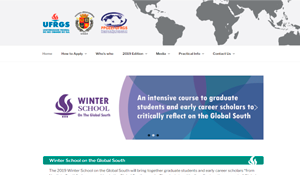
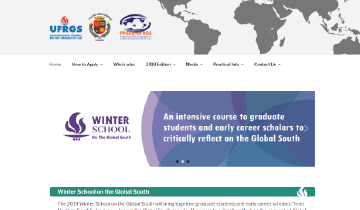
log

diff --git a/index.html b/index.html
@@ -85,20 +85,29 @@
 			<br>
 			<div class="container">
 				<h2 id="cases">CASES</h2></br>
-				<div class="row justify-content-md-center">
-					<div class="col-md-4" align="center">
-						<div class="casesimg"><a href="convenio.html" /><img src="img\adobeXD.png" alt="Adobe XD" height=auto></a></div>
-						<a>Convênio Saúde | PROFISSIONAL</a>
-					</div>
+				<div class="container">
+					<div class="row justify-content-md-center">
+						<div class="col-md-6" align="center">
+							<div class="casesimg"><a href="https://xd.adobe.com/view/db568613-85b9-4c7d-b766-7bc77bd21856-8e05/?fullscreen"><img src="img\desafioux.png" alt="Desafio UX" height=auto></a></div>
+							<a align="center"> Cartão Combustíveis | DESAFIO UX</a>
+						</div>
 
-					<div class="col-md-4" align="center">
-						<div class="casesimg"><a href="figmacv.html" /><img src="img\figmaCV.png" alt="Figma" height=auto></a></div>
-						<a>CV Figma | PESSOAL </a>
+						<div class="col-md-6" align="center">
+							<div class="casesimg"><a href="convenio.html" /><img src="img\adobeXD.png" alt="Adobe XD" height=auto></a></div>
+							<a>Convênio Saúde | PROFISSIONAL</a>
+						</div>
 					</div>
-
-					<div class="col-md-4" align="center">
-						<div class="casesimg"><a href="ws.html"><img src="img\WinterSchool.png" alt="Winter School" height=auto></a></div>
-						<a>Winter School | PROFISSIONAL</a>
+				</div></br></br>
+				<div class="container">
+					<div class="row justify-content-md-center">
+						<div class="col-md-6" align="center">
+							<div class="casesimg"><a href="figmacv.html" /><img src="img\figmaCV.png" alt="Figma" height=auto></a></div>
+							<a>CV Figma | PESSOAL </a>
+						</div>
+						<div class="col-md-6" align="center">
+							<div class="casesimg"><a href="ws.html"><img src="img\WinterSchool.png" alt="Winter School" height=auto></a></div>
+							<a>Winter School | PROFISSIONAL</a>
+						</div>
 					</div>
 				</div></br></br>
 			</div>
@@ -109,14 +118,14 @@
 			<p> Você pode me contatar pelos seguintes meios, chama lá! ;)</p>
 			<br>
 			<div class="row justify-content-md-center">
-				<div class="col-md-4" align="center">
-					<a href="https://t.me/taisaline" class="font-weight-bold" target="_blank"><embed type="image/svg+xml" src="img\telegram.svg" height="18px" width="auto" />@TaisAline</a>
+				<div class="col-md-4" align="left">
+					<a href="https://t.me/taisaline" class="font-weight-bold" target="_blank"><embed type="image/svg+xml" src="img\telegram.svg" height="18px" width="auto" /> @TaisAline</a>
 				</div>
 				<div class="col-md-4" align="center">
-					<a href="https://www.linkedin.com/in/tata-salomao" class="font-weight-bold" target="_blank"><embed type="image/svg+xml" src="img\linkedin.svg" height="18px" width="auto" />@tatasalomao</a>
+					<a href="https://www.linkedin.com/in/tata-salomao" class="font-weight-bold" target="_blank"><embed type="image/svg+xml" src="img\linkedin.svg" height="18px" width="auto" /> @tatasalomao</a>
 				</div>
-				<div class="col-md-4" align="center">
-					<a href="mailto:taisalineux@gmail.com?subject=Vamos%20conversar" class="font-weight-bold"><embed type="image/svg+xml" src="img\email.svg" height="18px" width="auto" />taisalineux@gmail.com</a>
+				<div class="col-md-4" align="right">
+					<a href="mailto:taisalineux@gmail.com?subject=Vamos%20conversar" class="font-weight-bold"><embed type="image/svg+xml" src="img\email.svg" height="18px" width="auto" /> taisalineux@gmail.com</a>
 				</div>
 			</div><br>
 		</div>

diff --git a/style.css b/style.css
@@ -5,6 +5,7 @@ p {
 a {
   color: #000000;
   font-weight: 300;
+  vertical-align: middle;
 }
 
 a:hover {
@@ -28,6 +29,7 @@ h2 {
 
 h2#cases {
   color: #ffffff;
+  font-weight: 600;
 }
 
 ul {
@@ -43,6 +45,7 @@ li {
 .h4,
 h4 {
   font-size: 1.25em;
+  font-weight: 700;
   margin: 0.5em 0em;
   color: purple;
 }
@@ -51,6 +54,10 @@ h4 {
 
 div img {
   display: block;
+  
+}
+svg {
+  vertical-align: middle;
 }
 
 .img-tata {
